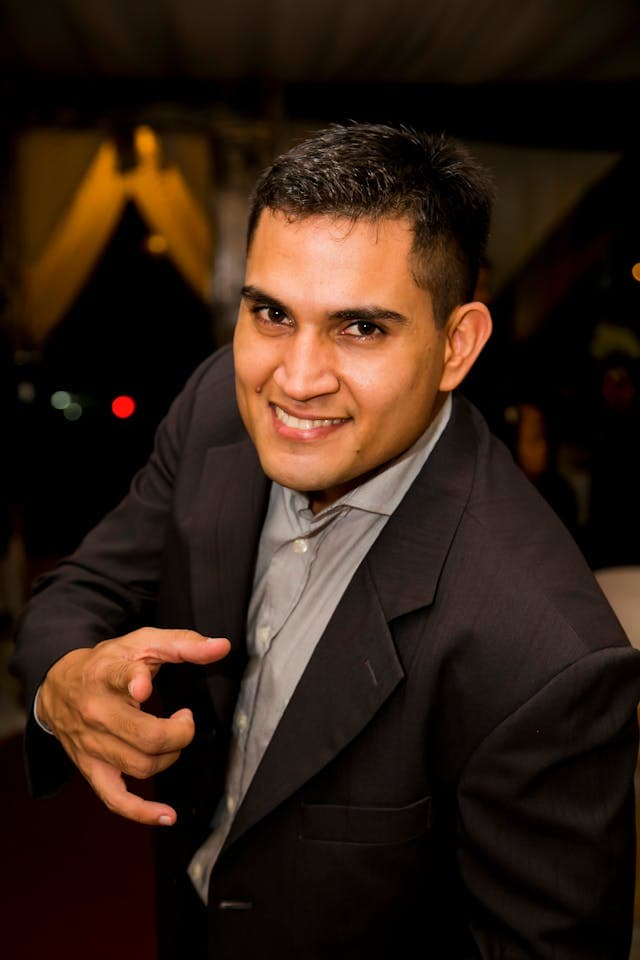
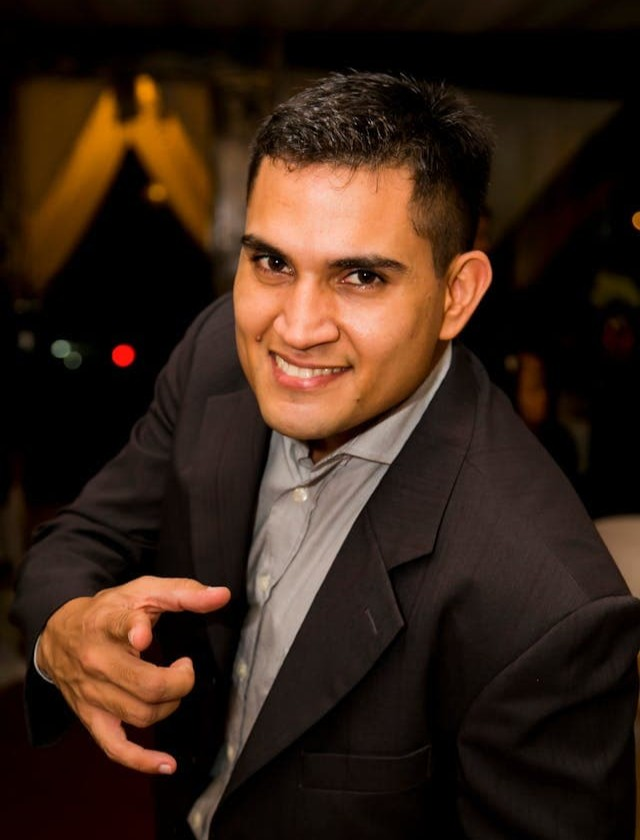
Cropped 2 employee pictures to match 3:4 ratio, updated the form structure and gave it style with CSS.

diff --git a/wwr/contact.html b/wwr/contact.html
@@ -24,59 +24,67 @@
         </nav>
     </header>
     <main>
-        <div class="company">
-            <h1>Rapids Adventures</h1>
-            <p>388 N Pleasant St<br>
-                Independence, Missouri<br>
-                +1 (583) 555 5555<br>
-                info@rapadv.com
-            </p>
-        </div>
-        <div class="map">
-            <iframe
-                src="https://www.google.com/maps/embed?pb=!1m16!1m12!1m3!1d6985.787605726506!2d-94.42663121427486!3d39.09732468414262!2m3!1f0!2f0!3f0!3m2!1i1024!2i768!4f13.1!2m1!1sThings%20to%20do!5e0!3m2!1sen!2sus!4v1760737598388!5m2!1sen!2sus"
-                width="600" height="450" allowfullscreen="" loading="lazy"
-                referrerpolicy="no-referrer-when-downgrade"></iframe>
-        </div>
-        <div class="form">
+        <h1>Rapids Adventures</h1>
+        <p>388 N Pleasant St<br>
+            Independence, Missouri<br>
+            +1 (583) 555 5555<br>
+            info@rapadv.com
+        </p>
+        <section class="find-us">
+            <div class="map">
+                <iframe
+                    src="https://www.google.com/maps/embed?pb=!1m16!1m12!1m3!1d6985.787605726506!2d-94.42663121427486!3d39.09732468414262!2m3!1f0!2f0!3f0!3m2!1i1024!2i768!4f13.1!2m1!1sThings%20to%20do!5e0!3m2!1sen!2sus!4v1760737598388!5m2!1sen!2sus"
+                    width="450" height="300" allowfullscreen="" loading="lazy"
+                    referrerpolicy="no-referrer-when-downgrade"></iframe>
+            </div>
             <form>
-                <label for="uname">Name</label>
-                <input type="text" id="uname" name="uname" placeholder="Enter your full name here">
-                <label for="email">Email</label>
-                <input type="email" id="email" name="email" placeholder="Enter your email address here">
-                <label for="">Message Purpose</label>
-                <label for="purpose1">General Inquiry</label>
-                <input type="radio" name="purpose 1" id="purpose1">
-                <label for="purpose2">Reservation Question</label>
-                <input type="radio" name="purpose2" id="purpose2">
-                <label for="purpose3">Website Suggestion</label>
-                <input type="radio" name="purpose3" id="purpose3">
+                <div class="form-item column2">
+                    <label for="uname">Name</label>
+                    <input type="text" id="uname" name="uname" placeholder="Enter your full name here">
+                    <label for="email">Email</label>
+                    <input type="email" id="email" name="email" placeholder="Enter your email address here">
+                </div>
+                <div class="form-item column2">
+                    <p>Message Purpose</p>
+                    <div class="column-radio">
+                        <input type="radio" name="purpose 1" id="purpose1">
+                        <label for="purpose1">General Inquiry</label>
+                        <input type="radio" name="purpose2" id="purpose2">
+                        <label for="purpose2">Reservation Question</label>
+                        <input type="radio" name="purpose3" id="purpose3">
+                        <label for="purpose3">Website Suggestion</label>
+                    </div>
+                </div>
                 <label for="msg">Message</label>
                 <textarea name="msg" id="msg" placeholder="Type your message here"></textarea>
-                <input type="checkbox" name="subs" id="subs" checked>
-                <label for="subs">Please subscribe me to the monthly newsletter</label>
+                <div>
+                    <input type="checkbox" name="subs" id="subs" checked>
+                    <label for="subs">Please subscribe me to the monthly newsletter</label>
+                </div>
                 <input type="submit" value="Send us your message!">
             </form>
-        </div>
-        <div class="employees">
+        </section>
+        <section>
             <h2>Our team ready to paddle the best service!</h2>
-            <figure>
-                <img src="images/employee-1.jpg" alt="Employee 1 profile picture">
-                <figcaption>Nelson Melo - Founder & CEO</figcaption>
-            </figure>
-            <figure>
-                <img src="images/employee-2.jpg" alt="Employee 2 profile picture">
-                <figcaption>Danielle Olmstead - Chief Manager Coordinator</figcaption>
-            </figure>
-            <figure>
-                <img src="images/employee-3.jpg" alt="Employee 3 profile picture">
-                <figcaption>Moses Sánchez - Paddling Instructor</figcaption>
-            </figure>
-            <figure>
-                <img src="images/employee-4.jpg" alt="Employee 4 profile picture">
-                <figcaption>Twyla Knight - Equipment Tester</figcaption>
-            </figure>
-        </div>
+            <div class="employees">
+                <figure>
+                    <img src="images/employee-1.jpg" alt="Employee 1 profile picture">
+                    <figcaption>Nelson Melo<br><i>Founder & CEO</i></figcaption>
+                </figure>
+                <figure>
+                    <img src="images/employee-2.jpg" alt="Employee 2 profile picture">
+                    <figcaption>Danielle Olmstead<br><i>Chief Manager</i></figcaption>
+                </figure>
+                <figure>
+                    <img src="images/employee-3.jpg" alt="Employee 3 profile picture">
+                    <figcaption>Moses Sánchez<br><i>Paddling Instructor</i></figcaption>
+                </figure>
+                <figure>
+                    <img src="images/employee-4.jpg" alt="Employee 4 profile picture">
+                    <figcaption>Twyla Knight<br><i>Equipment Tester</i></figcaption>
+                </figure>
+            </div>
+        </section>
     </main>
     <footer>
         <p> &copy; 2025. Rapids Adventures. Eder Jiménez R.</p>

diff --git a/wwr/styles/rafting.css b/wwr/styles/rafting.css
@@ -2,7 +2,7 @@
     --primary-color: darkslategray;
     --secondary-color: darkcyan;
     --accent1-color: #FFAE42;
-    --accent2-color: darkviolet;
+    --accent2-color: #B19CD9;
     --heading-font: "Times New Roman", "Georgia", serif;
     --body-font: Arial, Helvetica, sans-serif;
 }
@@ -22,6 +22,7 @@ body {
 header, main, footer {
     width: 840px;
     margin: 0 auto;
+    text-align: center;
 }
 
 h1, h2 {
@@ -54,7 +55,7 @@ nav, p, section, article {
     height: auto;
 }
 
-h1 {
+.hero h1 {
     position: absolute;
     top: 15px;
     width: 100%;
@@ -91,10 +92,12 @@ header img {
 }
 
 header {
+    /* border-radius: 0 0 1rem 1rem; */
     display: grid;
     grid-template-columns: 2fr 6fr;
     align-items: center;
     border-bottom: 1px solid var(--primary-color);
+    /* margin: 0 auto 1rem; */
     margin: 1rem auto;
 }
 
@@ -128,6 +131,7 @@ header {
     width: 200px;
     height: auto;
     border-radius: 15%;
+    border: 2px outset var(--accent1-color);
 }
 
 .origin {
@@ -153,6 +157,7 @@ header {
     width: 125px;
     height: auto;
     border-radius: 15%;
+    border: 2px solid var(--accent1-color);
 }
 
 footer {
@@ -160,4 +165,62 @@ footer {
     grid-template: 1fr / 3fr 1fr ;
     place-content: center;
     place-items: center;
+    border-top: 1px solid var(--primary-color);
 }
+
+.find-us {
+    display: grid;
+    gap: 20px;
+    grid-template-columns: 1fr 1fr;
+    border-radius: 1rem;
+    color: var(--primary-color);
+    margin: 0 auto;
+}
+
+.map iframe {
+    border: 4px dashed var(--secondary-color);
+}
+
+form {
+    display: grid;
+    gap: 5px;
+    height: 300px;
+}
+
+.form-item {
+    display: grid;
+    align-items: center;
+}
+
+.column2 {
+    grid-template-columns: 1fr 3fr;
+}
+
+.column-radio {
+    display: grid;
+    grid-template-columns: 50px 1fr;
+}
+
+input, textarea {
+    padding: 0.4rem;
+    font-size: 1.05em;
+}
+
+input[type=submit]:hover {
+    background-color: var(--primary-color);
+    color: #fff
+}
+
+.employees {
+    display: grid;
+    grid-template: 1fr / 1fr 1fr 1fr 1fr;
+}
+
+.employees img {
+    width: 125px;
+    height: auto;
+    border-radius: 15%;
+    border: 2px solid var(--accent1-color);
+}
+
+
